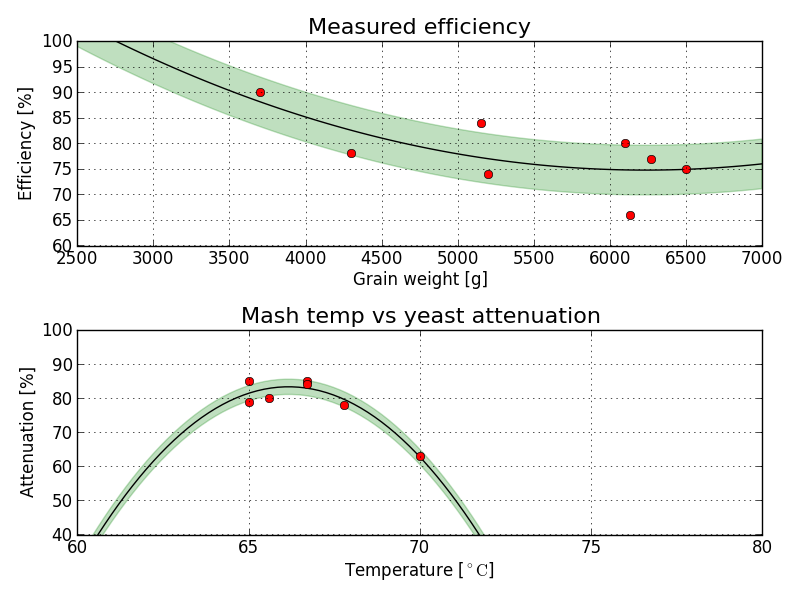
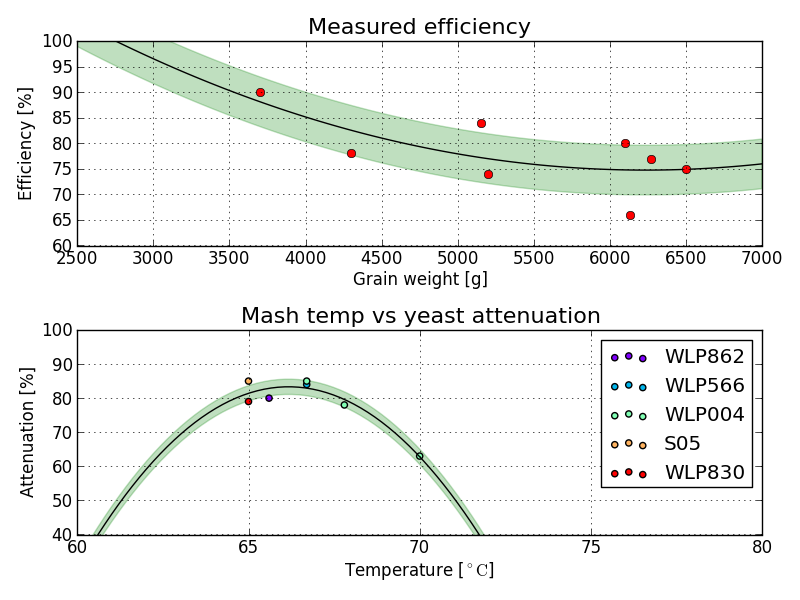
plotting different yeast types now has different colors
legend also added.

diff --git a/plot_all.py b/plot_all.py
@@ -1,10 +1,12 @@
 import matplotlib.pyplot as pl
 import numpy as np
+import pandas
+import matplotlib.cm as cm
 
 from matplotlib import rcParams
 rcParams.update({'figure.autolayout': True})
 
-weightdata = np.genfromtxt("weight_vs_efficiency.csv", delimiter=",", names=True)
+weightdata = np.genfromtxt("weight_vs_efficiency.csv", delimiter=",", names=True, dtype=None)
 
 wx = weightdata["Grainweight_g"]
 wy = weightdata["Efficiency_"]
@@ -16,14 +18,16 @@ wyp = np.polyval(wparams, wxp)
 
 #error band
 wsig = np.std(wy - np.polyval(wparams, wx))
-
-attdata = np.genfromtxt("mash_temp_vs_attenuation.csv", delimiter=",", names=True)
+attdata = np.genfromtxt("mash_temp_vs_attenuation.csv", delimiter=",", names=True, dtype=None)
+##Experimental and ugly
+data = pandas.read_csv("mash_temp_vs_attenuation.csv", delimiter=",", dtype=None)
+yeasttypes = set(data["Yeast type"])
+## End
 ax = attdata["Mash_temperature_C"]
 ay =  attdata["Attenuation_"]
 
 #fit 2nd order polynomial
-aparams = np.polyfit(ax, ay,
- 2)
+aparams = np.polyfit(ax, ay, 2)
 axp = np.linspace(80, 60, 100)
 ayp = np.polyval(aparams, axp)
 
@@ -44,15 +48,30 @@ pl.grid()
 
 pl.subplot(2, 1, 2)
 pl.title("Mash temp vs yeast attenuation", fontsize=16)
-
 pl.plot(axp, ayp, 'k')
 pl.fill_between(axp, ayp - asig, ayp + asig, color='green', alpha=0.25)
-pl.plot(attdata["Mash_temperature_C"], attdata["Attenuation_"], "ro")
+#Experimental and ugly
+
+Ex = np.arange(len(yeasttypes))
+Eys = [i+Ex+(i*Ex)**2 for i in range(len(yeasttypes))]
+
+colors = cm.rainbow(np.linspace(0, 1, len(Eys)))
+
+#colors = ["red","blue","green","orange","purple"]
+
+
+for yeast,color in zip(yeasttypes,colors):
+	brews = data[data["Yeast type"].str.contains(yeast)]
+	pl.scatter(brews["Mash temperature [C]"], brews["Attenuation [%]"], color=color, edgecolors="black", label=yeast)
+#End
+
+
 pl.xlim(60,80)
 pl.ylim(40,100)
 pl.xlabel(r"Temperature [$^{\circ}\mathrm{C}$]")
 pl.ylabel("Attenuation [%]")
 pl.grid()
+pl.legend()
 pl.tight_layout()
 pl.savefig('all.png')
 pl.show()
